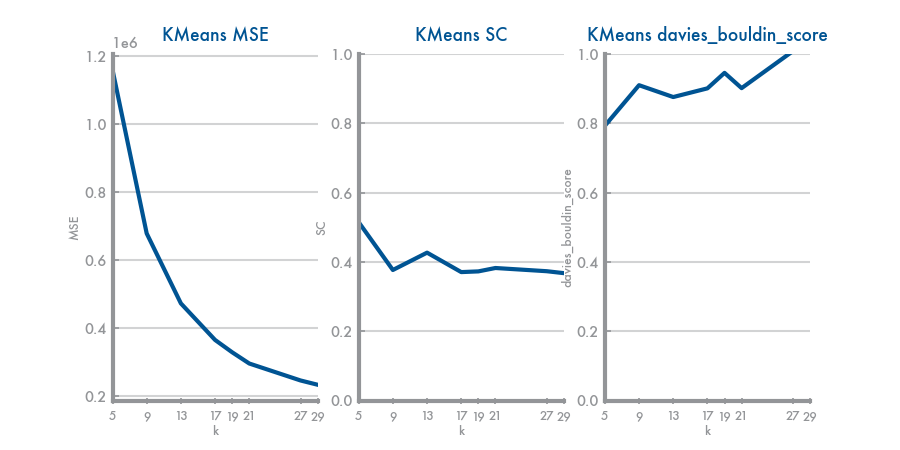
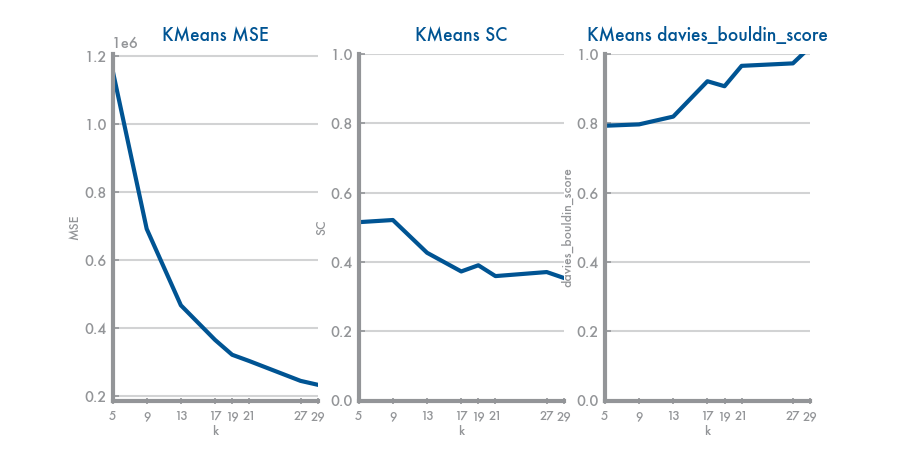
kmeans for set 1 before and after pca.
em for set 1 before and after pca

diff --git a/Dataset1/KMeans_Set1/kmeans_set1_pca.py b/Dataset1/KMeans_Set1/kmeans_set1_pca.py
@@ -1,6 +1,9 @@
+import pandas as pd
 from matplotlib.pyplot import subplots, show, savefig
+from numpy.linalg import eig
 from pandas import DataFrame, read_csv
 from sklearn.cluster import KMeans
+from sklearn.decomposition import PCA
 from sklearn.metrics import silhouette_score, davies_bouldin_score
 
 from ds_charts import choose_grid, plot_clusters, plot_line
@@ -13,8 +16,30 @@ data.pop('PERSON_INJURY')
 data.pop('UNIQUE_ID')
 print(data.columns)
 
-v1 = 6
-v2 = 7
+
+#start pca
+
+eixo_x = 1
+eixo_y = 6
+eixo_z = 7
+
+mean = (data.mean(axis=0)).tolist()
+centered_data = data - mean
+cov_mtx = centered_data.cov()
+eigvals, eigvecs = eig(cov_mtx)
+
+
+pca = PCA()
+pca.fit(centered_data)
+PC = pca.components_
+var = pca.explained_variance_
+
+data = pd.concat([data.iloc[:, eixo_y], data.iloc[:, eixo_z]], axis=1)
+
+#end pca
+
+v1 = 0
+v2 = 1
 
 N_CLUSTERS = [5, 9, 13, 17, 19, 21, 27, 29]
 rows, cols = choose_grid(len(N_CLUSTERS))
@@ -42,7 +67,7 @@ for n in range(len(N_CLUSTERS)):
                   ax=axs[i, j])
 
     i, j = (i + 1, 0) if (n + 1) % cols == 0 else (i, j + 1)
-savefig(f'images/kmeans_study_before_pca.png')
+savefig(f'images/kmeans_study_after_pca.png')
 show()
 
 fig, ax = subplots(1, 3, figsize=(6, 3), squeeze=False)
@@ -51,5 +76,5 @@ plot_line(N_CLUSTERS, sc, title='KMeans SC', xlabel='k', ylabel='SC', ax=ax[0, 1
 plot_line(N_CLUSTERS, davies_bouldin_score_list, title='KMeans davies_bouldin_score', xlabel='k',
           ylabel='davies_bouldin_score', ax=ax[0, 2], percentage=True)
 
-savefig(f'images/kmeans_scores_before_pca.png')
+savefig(f'images/kmeans_scores_after_pca.png')
 show()

diff --git a/Dataset1/EM_Set1/em_set1_pca.py b/Dataset1/EM_Set1/em_set1_pca.py
@@ -1,7 +1,10 @@
 import math
 
+import pandas as pd
 from matplotlib.pyplot import subplots, show, savefig
+from numpy.linalg import eig
 from pandas import DataFrame, read_csv
+from sklearn.decomposition import PCA
 from sklearn.metrics import silhouette_score, mean_absolute_error
 from sklearn.mixture import GaussianMixture
 
@@ -15,8 +18,30 @@ data.pop('PERSON_INJURY')
 data.pop('UNIQUE_ID')
 print(data.columns)
 
-v1 = 6
-v2 = 7
+# start pca
+
+eixo_x = 1
+eixo_y = 6
+eixo_z = 7
+
+mean = (data.mean(axis=0)).tolist()
+centered_data = data - mean
+cov_mtx = centered_data.cov()
+eigvals, eigvecs = eig(cov_mtx)
+
+
+pca = PCA()
+pca.fit(centered_data)
+PC = pca.components_
+var = pca.explained_variance_
+
+data = pd.concat([data.iloc[:, eixo_y], data.iloc[:, eixo_z]], axis=1)
+
+# end pca
+
+v1 = 0
+v2 = 1
+
 
 N_CLUSTERS = [5, 9, 13, 17, 19, 21, 27, 29]
 rows, cols = choose_grid(len(N_CLUSTERS))
@@ -75,7 +100,7 @@ for n in range(len(N_CLUSTERS)):
 
     i, j = (i + 1, 0) if (n + 1) % cols == 0 else (i, j + 1)
 
-savefig(f'images/em_study_before_pca.png')
+savefig(f'images/em_study_after_pca.png')
 show()
 
 
@@ -86,5 +111,5 @@ plot_line(N_CLUSTERS, mae, title='EM MAE', xlabel='k', ylabel='MAE', ax=ax[0, 2]
 plot_line(N_CLUSTERS, rmse, title='EM RMSE', xlabel='k', ylabel='RMSE', ax=ax[0, 3])
 
 
-savefig(f'images/em_scores_before_pca.png')
+savefig(f'images/em_scores_after_pca.png')
 show()

diff --git a/Dataset1/correctPipeline.py b/Dataset1/correctPipeline.py
@@ -647,8 +647,8 @@ if __name__ == '__main__':
     models = []
     for mv in [
         (datasetCustomImputation, "customImputation"),
-        # (datasetReplaceMVByMostCommon, "ReplaceMVByMostCommon"),
-        # (datasetReplaceMVByConstant, "ReplaceMVByConstant")
+        #(datasetReplaceMVByMostCommon, "ReplaceMVByMostCommon"),
+        #(datasetReplaceMVByConstant, "ReplaceMVByConstant")
     ]:
 
         print("____________")
@@ -656,7 +656,7 @@ if __name__ == '__main__':
         print()
         for dummyMethod in [
             (encode, "ordinalEncoding"),
-            # (dummifyDataset, "oneHot"),
+            #(dummifyDataset, "oneHot"),
         ]:
             print("\tEncoding method: ", dummyMethod[1])
 
